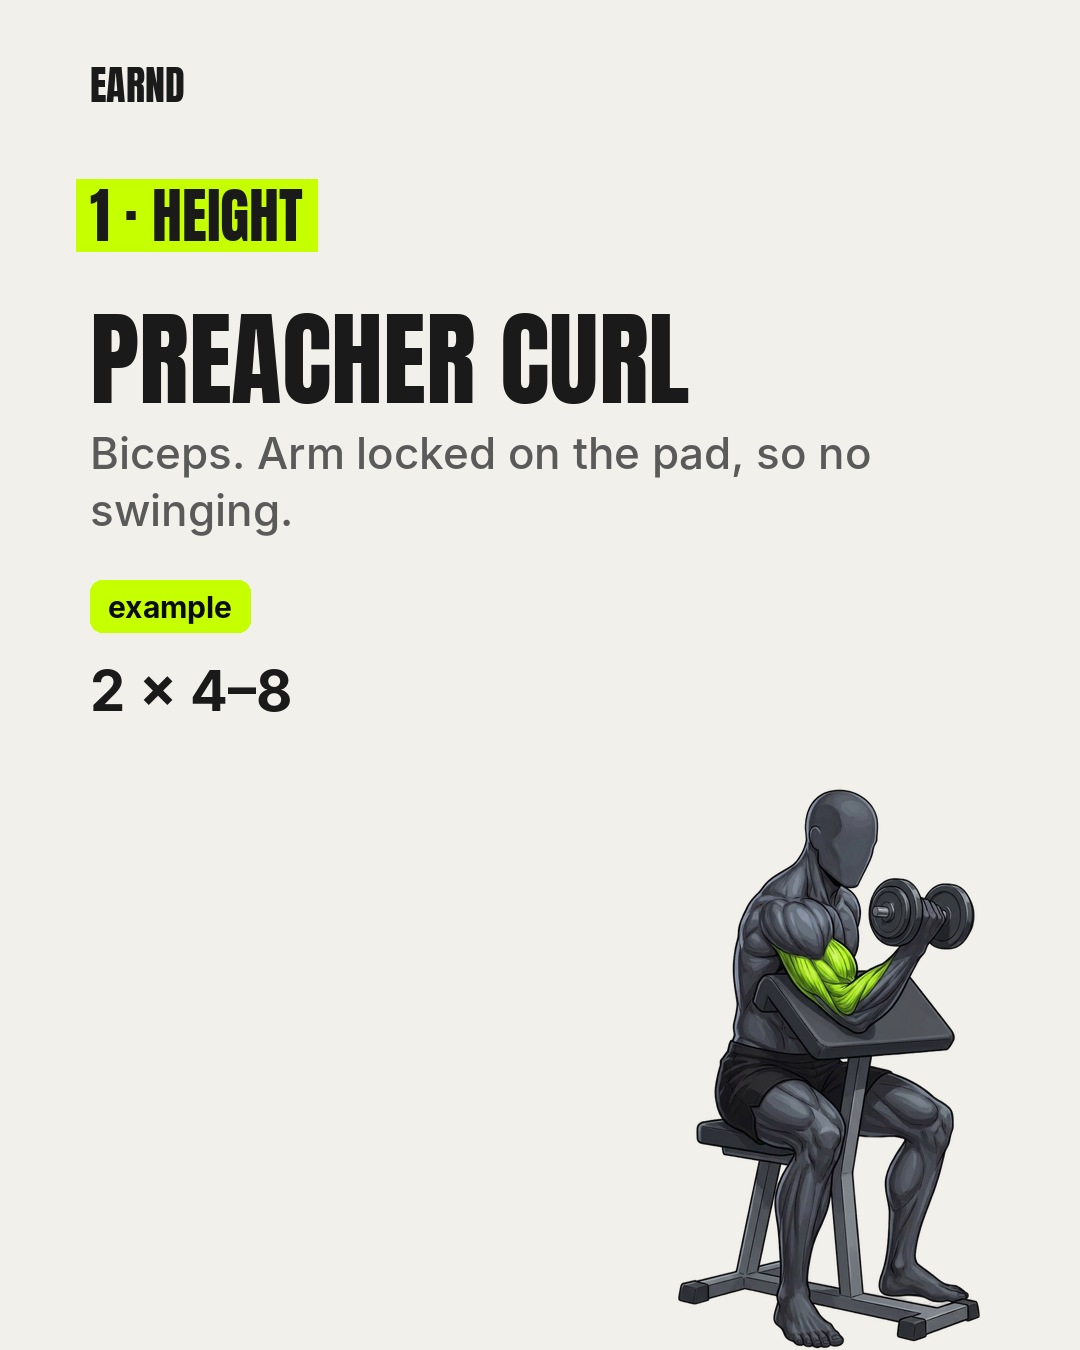
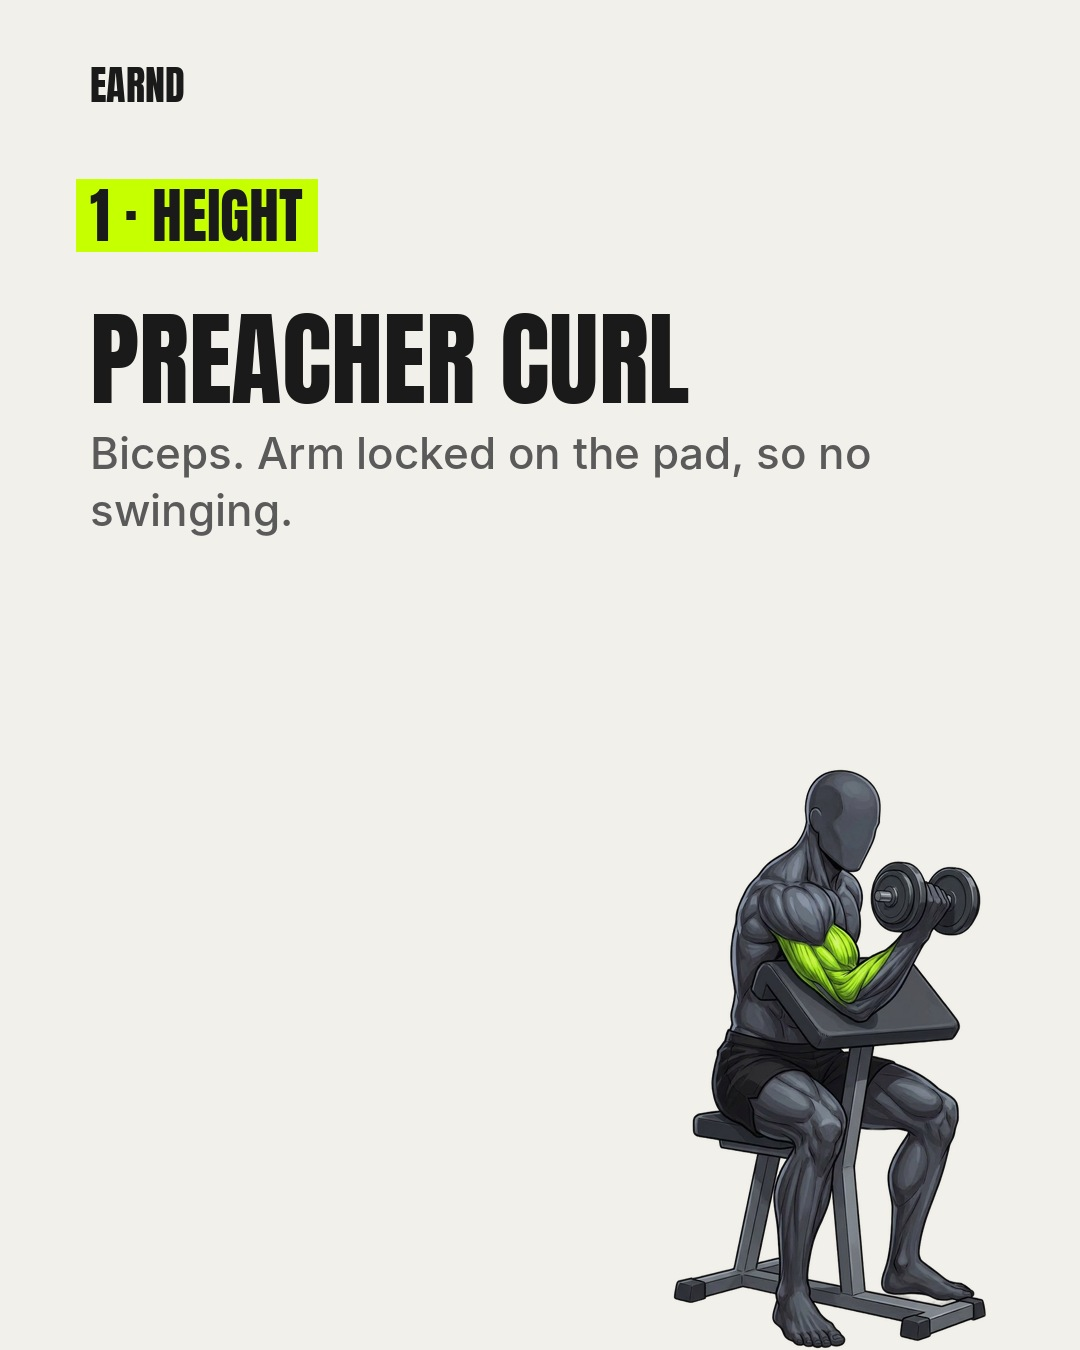
Remove sets x reps prescriptions from all slides (founder rule 2026-10-30)
Claude-Session: https://claude.ai/code/session_01Ws8S991F2EukoMgPY9duxg

Changed region(s): [[0.6111, 0.56, 0.9167, 0.9956], [0.0611, 0.4044, 0.275, 0.5289]]

diff --git a/04-sets/2026-10-30-edu-perfect-upper-day/slides.md b/04-sets/2026-10-30-edu-perfect-upper-day/slides.md
@@ -7,17 +7,17 @@
 - **Caption:** the upper day behind EARND. save it for your next session
 - **Hashtags:** #upperday #upperlower #gymroutine #gymtips #musclebuildingtips
 - **AI label:** ON (mascot)
-- Exercises, sets and rules come from `01-app/programme.md`; numbers are tagged "example".
+- Exercises, sets and rules come from `01-app/programme.md`; progression numbers are tagged "example"; no sets × reps on slides (2026-10-30).
 
 | # | Type | Text |
 |---|---|---|
 | 1 | cover | STRUCTURE THE / PERFECT / UPPER DAY |
-| 2 | exercise | #1 · MACHINE CHEST PRESS · Chest · Shoulder blades pinned to the pad. Press, then control it back. · 2 × 4–8 |
-| 3 | exercise | #2 · PULLDOWN · Lats · Drive your elbows down to your sides. · 2 × 4–8 |
-| 4 | exercise | #3 · CHEST-SUPPORTED ROW · Upper back · Chest stays on the pad. Pull your elbows back. · 2 × 4–8 |
-| 5 | exercise | #4 · LATERAL RAISE · Side delts · Lead with your elbows. Stop at shoulder height. · 2 × 4–8 |
-| 6 | exercise | #5 · PREACHER CURL · Biceps · Arm stays on the pad. Lower to a full stretch. · 2 × 4–8 |
-| 7 | exercise | #6 · POLIQUIN PUSHDOWN · Triceps · Elbows pinned to your sides. Full lockout. · 2 × 4–8 |
-| 8 | cards | THE FULL UPPER DAY · 2 × 4–8 each · Machine Chest Press, Pulldown, Chest-Supported Row, Lateral Raise, Preacher Curl, Poliquin Pushdown |
+| 2 | exercise | #1 · MACHINE CHEST PRESS · Chest · Shoulder blades pinned to the pad. Press, then control it back. |
+| 3 | exercise | #2 · PULLDOWN · Lats · Drive your elbows down to your sides. |
+| 4 | exercise | #3 · CHEST-SUPPORTED ROW · Upper back · Chest stays on the pad. Pull your elbows back. |
+| 5 | exercise | #4 · LATERAL RAISE · Side delts · Lead with your elbows. Stop at shoulder height. |
+| 6 | exercise | #5 · PREACHER CURL · Biceps · Arm stays on the pad. Lower to a full stretch. |
+| 7 | exercise | #6 · POLIQUIN PUSHDOWN · Triceps · Elbows pinned to your sides. Full lockout. |
+| 8 | cards | THE FULL UPPER DAY · Machine Chest Press, Pulldown, Chest-Supported Row, Lateral Raise, Preacher Curl, Poliquin Pushdown |
 | 9 | app | EARND SHOWS WHAT TO BEAT ON EVERY ONE · Last session and today's target, on every set. |
 | 10 | cta | SAVE THIS FOR UPPER DAY. · EARND launches soon. Follow for the launch. |

diff --git a/04-sets/2026-10-29-edu-upper-lower-programme/slides.md b/04-sets/2026-10-29-edu-upper-lower-programme/slides.md
@@ -6,16 +6,16 @@
 - **Angle:** EARND's real 4-day upper/lower programme as a save-able template → EARND shows what to beat
 - **Caption:** the exact 4-day split behind EARND. save it for your next session
 - **Hashtags:** #upperlower #workoutsplit #gymroutine #gymtips #musclebuildingtips
-- **AI label: ON** (mascot). App slides are real screenshots. Exercises and sets come from `01-app/programme.md`; numbers are tagged "example".
+- **AI label: ON** (mascot). App slides are real screenshots. Exercises and sets come from `01-app/programme.md`; progression numbers are tagged "example"; no sets × reps on slides (2026-10-30).
 
 | # | Type | Text |
 |---|---|---|
 | 1 | cover | THE 4-DAY / UPPER / LOWER / SPLIT |
 | 2 | grid | THE WEEK · Four sessions, three rest days. Any four days work if you keep a rest day between pairs. |
-| 3 | list | DAY 1 · UPPER A · 2 × 4–8 each · Machine Chest Press, Pulldown, Chest-Supported Row, Lateral Raise, Preacher Curl, Poliquin Pushdown |
-| 4 | list | DAY 2 · LOWER A · 2 × 4–8 each · Calf Press, Seated Leg Curl, Leg Extension, Adductor Machine, Hip Thrust |
-| 5 | list | DAY 4 · UPPER B · 2 × 4–8 each · Machine Shoulder Press, Pullover, Shrug, Pec Deck, Bayesian Curl, Triceps Extension |
-| 6 | list | DAY 5 · LOWER B · 2 × 4–8 each · Calf Press, Unilateral Leg Curl, Unilateral Leg Extension, RDL, Pendulum / Hack Squat |
+| 3 | list | DAY 1 · UPPER A · Machine Chest Press, Pulldown, Chest-Supported Row, Lateral Raise, Preacher Curl, Poliquin Pushdown |
+| 4 | list | DAY 2 · LOWER A · Calf Press, Seated Leg Curl, Leg Extension, Adductor Machine, Hip Thrust |
+| 5 | list | DAY 4 · UPPER B · Machine Shoulder Press, Pullover, Shrug, Pec Deck, Bayesian Curl, Triceps Extension |
+| 6 | list | DAY 5 · LOWER B · Calf Press, Unilateral Leg Curl, Unilateral Leg Extension, RDL, Pendulum / Hack Squat |
 | 7 | steps | HOW TO PROGRESS · OWN 8 CLEAN REPS, THEN ADD WEIGHT. · 100 kg × 8 → 105 kg × 4–5 |
 | 8 | app | THIS IS EARND'S PROGRAMME · Every set shows last session and the target to beat. |
 | 9 | cta | SAVE THIS FOR YOUR NEXT SESSION. · EARND launches soon. Follow for the launch. |

diff --git a/04-sets/2026-10-29-ezyxbt-edu-my-split/slides.md b/04-sets/2026-10-29-ezyxbt-edu-my-split/slides.md
@@ -9,13 +9,13 @@
 - **AI label:** not needed (real photos, no generated images).
 - **First-person claims the founder must confirm:** that he trains this split / uses this progression rule.
 
-| # | Type | Text | Photo |
-|---|---|---|---|
-| 1 | cover | THE 4-DAY SPLIT / I ACTUALLY / TRAIN | b7-15.jpg |
-| 2 | steps | WHY THIS ONE · 4 DAYS A WEEK. SHORT SESSIONS. · upper, lower, rest, upper, lower. easy to repeat every week. · 2 × 4–8 per exercise | b6-13.jpg |
-| 3 | grid | MY WEEK · four sessions, three rest days. |  |
-| 4 | list | DAY 1 · UPPER A · 2 × 4–8 each · Machine Chest Press, Pulldown, Chest-Supported Row, Lateral Raise, Preacher Curl, Poliquin Pushdown |  |
-| 5 | list | DAY 2 · LOWER A · 2 × 4–8 each · Calf Press, Seated Leg Curl, Leg Extension, Adductor Machine, Hip Thrust |  |
-| 6 | list | DAY 4 · UPPER B · 2 × 4–8 each · Machine Shoulder Press, Pullover, Shrug, Pec Deck, Bayesian Curl, Triceps Extension |  |
-| 7 | list | DAY 5 · LOWER B · 2 × 4–8 each · Calf Press, Unilateral Leg Curl, Unilateral Leg Extension, RDL, Pendulum / Hack Squat |  |
-| 8 | cta | SAVE IT FOR YOUR NEXT SESSION. · i'm building EARND. follow @earndapp for the launch. | b7-16.jpg |
+| # | Type | Text |
+|---|---|---|
+| 1 | cover | THE 4-DAY SPLIT / I ACTUALLY / TRAIN |
+| 2 | steps | WHY THIS ONE · 4 DAYS A WEEK. SHORT SESSIONS. · upper, lower, rest, upper, lower. easy to repeat every week. |
+| 3 | grid | MY WEEK · four sessions, three rest days. |
+| 4 | list | DAY 1 · UPPER A · Machine Chest Press, Pulldown, Chest-Supported Row, Lateral Raise, Preacher Curl, Poliquin Pushdown |
+| 5 | list | DAY 2 · LOWER A · Calf Press, Seated Leg Curl, Leg Extension, Adductor Machine, Hip Thrust |
+| 6 | list | DAY 4 · UPPER B · Machine Shoulder Press, Pullover, Shrug, Pec Deck, Bayesian Curl, Triceps Extension |
+| 7 | list | DAY 5 · LOWER B · Calf Press, Unilateral Leg Curl, Unilateral Leg Extension, RDL, Pendulum / Hack Squat |
+| 8 | cta | SAVE IT FOR YOUR NEXT SESSION. · i'm building EARND. follow @earndapp for the launch. |

diff --git a/04-sets/2026-10-30-edu-perfect-lower-day/slides.md b/04-sets/2026-10-30-edu-perfect-lower-day/slides.md
@@ -7,16 +7,16 @@
 - **Caption:** the lower day behind EARND. save it for leg day
 - **Hashtags:** #legday #lowerbody #upperlower #gymtips #musclebuildingtips
 - **AI label:** ON (mascot)
-- Exercises, sets and rules come from `01-app/programme.md`; numbers are tagged "example".
+- Exercises, sets and rules come from `01-app/programme.md`; progression numbers are tagged "example"; no sets × reps on slides (2026-10-30).
 
 | # | Type | Text |
 |---|---|---|
 | 1 | cover | STRUCTURE THE / PERFECT / LOWER DAY |
-| 2 | exercise | #1 · CALF PRESS · Calves · Full stretch at the bottom, pause, then press. · 2 × 4–8 |
-| 3 | exercise | #2 · UNILATERAL LEG CURL · Hamstrings · One leg at a time. Control the way back. · 2 × 4–8 |
-| 4 | exercise | #3 · UNILATERAL LEG EXTENSION · Quads · Squeeze at the top for a second. · 2 × 4–8 |
-| 5 | exercise | #4 · RDL · Hamstrings + glutes · Hips back, flat back, bar close to your legs. · 2 × 4–8 |
-| 6 | exercise | #5 · PENDULUM / HACK SQUAT · Quads · Go as deep as you can with control. · 2 × 4–8 |
-| 7 | cards | THE FULL LOWER DAY · 2 × 4–8 each · Calf Press, Unilateral Leg Curl, Unilateral Leg Extension, RDL, Pendulum / Hack Squat |
+| 2 | exercise | #1 · CALF PRESS · Calves · Full stretch at the bottom, pause, then press. |
+| 3 | exercise | #2 · UNILATERAL LEG CURL · Hamstrings · One leg at a time. Control the way back. |
+| 4 | exercise | #3 · UNILATERAL LEG EXTENSION · Quads · Squeeze at the top for a second. |
+| 5 | exercise | #4 · RDL · Hamstrings + glutes · Hips back, flat back, bar close to your legs. |
+| 6 | exercise | #5 · PENDULUM / HACK SQUAT · Quads · Go as deep as you can with control. |
+| 7 | cards | THE FULL LOWER DAY · Calf Press, Unilateral Leg Curl, Unilateral Leg Extension, RDL, Pendulum / Hack Squat |
 | 8 | app | EARND SHOWS WHAT TO BEAT ON EVERY ONE · Last session and today's target, on every set. |
 | 9 | cta | SAVE THIS FOR LEG DAY. · EARND launches soon. Follow for the launch. |

diff --git a/04-sets/2026-10-29-edu-only-3-arm-exercises/slides.md b/04-sets/2026-10-29-edu-only-3-arm-exercises/slides.md
@@ -6,15 +6,15 @@
 - **Angle:** arm grows in 3 directions → 1 exercise each → track each one in EARND
 - **Caption:** 3 exercises, 3 directions. that's the whole arm
 - **Hashtags:** #armday #armworkout #hammercurls #gymtips #musclebuildingtips
-- **AI label: ON** (mascot). App slides are real screenshots. Exercises and sets come from `01-app/programme.md`; numbers are tagged "example".
+- **AI label: ON** (mascot). App slides are real screenshots. Exercises and sets come from `01-app/programme.md`; progression numbers are tagged "example"; no sets × reps on slides (2026-10-30).
 
 | # | Type | Text |
 |---|---|---|
 | 1 | cover | THE ONLY / 3 ARM EXERCISES / YOU NEED |
 | 2 | steps | THE IDEA · YOUR ARM HAS 3 DIRECTIONS: HEIGHT, WIDTH, DEPTH. · Train one exercise for each. |
-| 3 | steps | 1 · HEIGHT · PREACHER CURL · Biceps. Arm locked on the pad, so no swinging. · 2 × 4–8 |
-| 4 | steps | 2 · WIDTH · HAMMER CURL · Palms facing each other. Hits the brachialis on the side of the arm. · 2 × 4–8 |
-| 5 | steps | 3 · DEPTH · OVERHEAD TRICEPS EXTENSION · Triceps, the back of the arm, trained in a stretch. · 2 × 4–8 |
+| 3 | steps | 1 · HEIGHT · PREACHER CURL · Biceps. Arm locked on the pad, so no swinging. |
+| 4 | steps | 2 · WIDTH · HAMMER CURL · Palms facing each other. Hits the brachialis on the side of the arm. |
+| 5 | steps | 3 · DEPTH · OVERHEAD TRICEPS EXTENSION · Triceps, the back of the arm, trained in a stretch. |
 | 6 | steps | THE RULE · OWN 8 CLEAN REPS, THEN ADD WEIGHT. · Execution → reps → load. |
 | 7 | app | EARND SHOWS YOUR NEXT STEP · After every workout: add a rep, or increase the load. |
 | 8 | cta | SAVE THIS FOR ARM DAY. · EARND launches soon. Follow for the launch. |

diff --git a/CLAUDE.md b/CLAUDE.md
@@ -39,7 +39,7 @@ default_app_slide: 4
 - Our accounts never comment on or engage with each other.
 - EARND has no free trial. Weekly reviews track paid subscriptions, not trials (the `trials` column in `07-results/revenue.csv` stays blank). Locate drop-offs with the funnel in `01-app/app-brief.md` → Pricing.
 - Prelaunch: every set ends with its account's prelaunch CTA from `accounts.json` (@earndapp: "EARND launches soon. Follow for the launch."). No download CTA or links until `phase` is "launched" and `launch.download_url` is set. No trial references.
-- Numerical examples (e.g. 100 kg × 7 → 100 kg × 8) are always labelled "example" on the slide. This includes sets × reps prescriptions and any weights (founder, 2026-10-29).
+- Numerical examples (e.g. 100 kg × 7 → 100 kg × 8) are always labelled "example" on the slide. No sets × reps prescriptions on slides at all (founder, 2026-10-30); weights in progression examples stay labelled "example".
 - Scheduling: users move the four prescribed sessions to available days. Never say the programme adapts to fewer sessions.
 - Never invent user experiences, testimonials, or independent endorsements.
 - No physique promises. Hooks and payoffs talk about tracking, targets, and having a plan. Users "can see when they've improved," never "numbers go up every week" or "know it's working."

diff --git a/04-sets/2026-10-29-ezyxbt-edu-how-i-progress/slides.md b/04-sets/2026-10-29-ezyxbt-edu-how-i-progress/slides.md
@@ -9,11 +9,11 @@
 - **AI label:** not needed (real photos, no generated images).
 - **First-person claims the founder must confirm:** that he trains this split / uses this progression rule.
 
-| # | Type | Text | Photo |
-|---|---|---|---|
-| 1 | cover | HOW I / PROGRESS / EVERY LIFT | b5-02.jpg |
-| 2 | steps | STEP 1 · I PICK A WEIGHT I CAN DO FOR 4 CLEAN REPS. | b6-11.jpg |
-| 3 | steps | STEP 2 · SAME WEIGHT. I ADD REPS. · 100 kg × 5 → 6 → 7 | b5-16.jpg |
-| 4 | steps | STEP 3 · 8 CLEAN REPS? THEN I ADD WEIGHT. · 100 kg × 8 → 105 kg × 4–5 | b5-01.jpg |
-| 5 | steps | THE RULE · IF MY FORM BREAKS, I HAVEN'T EARNED THE INCREASE. | b1-11.jpg |
-| 6 | cta | THAT'S THE WHOLE SYSTEM. · i'm building EARND. follow @earndapp for the launch. | b4-10.jpg |
+| # | Type | Text |
+|---|---|---|
+| 1 | cover | HOW I / PROGRESS / EVERY LIFT |
+| 2 | steps | STEP 1 · I PICK A WEIGHT I CAN DO FOR 4 CLEAN REPS. |
+| 3 | steps | STEP 2 · SAME WEIGHT. I ADD REPS. · 100 kg × 5 → 6 → 7 |
+| 4 | steps | STEP 3 · 8 CLEAN REPS? THEN I ADD WEIGHT. · 100 kg × 8 → 105 kg × 4–5 |
+| 5 | steps | THE RULE · IF MY FORM BREAKS, I HAVEN'T EARNED THE INCREASE. |
+| 6 | cta | THAT'S THE WHOLE SYSTEM. · i'm building EARND. follow @earndapp for the launch. |

diff --git a/04-sets/2026-10-30-ezyxbt-edu-session-rules/slides.md b/04-sets/2026-10-30-ezyxbt-edu-session-rules/slides.md
@@ -7,12 +7,12 @@
 - **Caption:** the rules i follow every session
 - **Hashtags:** #gymtips #progressiveoverload #strengthtraining #upperlower
 - **AI label:** not needed (real photos)
-- Exercises, sets and rules come from `01-app/programme.md`; numbers are tagged "example". First-person rules: the founder confirms them by approving.
+- Exercises, sets and rules come from `01-app/programme.md`; progression numbers are tagged "example"; no sets × reps on slides (2026-10-30). First-person rules: the founder confirms them by approving.
 
 | # | Type | Text |
 |---|---|---|
 | 1 | cover | 4 RULES I / FOLLOW / EVERY SESSION |
-| 2 | steps | RULE 1 · 2 WORKING SETS PER EXERCISE. · 4–8 clean reps each. that's it. · 2 × 4–8 |
+| 2 | steps | RULE 1 · 2 WORKING SETS PER EXERCISE. · 4–8 clean reps each. that's it. |
 | 3 | steps | RULE 2 · 2–3 MINUTES REST BETWEEN WORKING SETS. · so the second set is actually good. |
 | 4 | steps | RULE 3 · WARM-UPS DON'T COUNT. · do as many as you need. only working sets get logged. |
 | 5 | steps | RULE 4 · EXECUTION → REPS → LOAD. · in that order. never the other way round. |

diff --git a/04-sets/2026-10-28-edu-ranking-splits-dark/slides.md b/04-sets/2026-10-28-edu-ranking-splits-dark/slides.md
@@ -16,6 +16,6 @@
 | 4 | rank | 4 · ARNOLD · Lots of volume, but 6 days a week is hard to keep up. |
 | 5 | rank | 3 · PPL x2 · Each muscle twice a week, but six sessions is a lot to fit in. |
 | 6 | rank | 2 · PPL + UL · Twice-a-week frequency in five days. Great if you can train 5x. |
-| 7 | rank | 1 · UPPER/LOWER · Each muscle twice a week in just four sessions. Short, focused, repeatable. |
-| 8 | app | EARND IS A 4-DAY UPPER / LOWER · Open today's session and see what to beat on every set. · 01-app/assets/train-week-overview.png |
+| 7 | rank | UPPER/LOWER · Each muscle twice a week in just four sessions. Short, focused, repeatable. |
+| 8 | app | EARND IS A 4-DAY UPPER / LOWER · Open today's session and see what to beat on every set. |
 | 9 | cta | PICK A SPLIT YOU CAN ACTUALLY KEEP. · EARND launches soon. Follow for the launch. |

diff --git a/04-sets/2026-10-28-edu-ranking-splits-light/slides.md b/04-sets/2026-10-28-edu-ranking-splits-light/slides.md
@@ -16,6 +16,6 @@
 | 4 | rank | 4 · ARNOLD · Lots of volume, but 6 days a week is hard to keep up. |
 | 5 | rank | 3 · PPL x2 · Each muscle twice a week, but six sessions is a lot to fit in. |
 | 6 | rank | 2 · PPL + UL · Twice-a-week frequency in five days. Great if you can train 5x. |
-| 7 | rank | 1 · UPPER/LOWER · Each muscle twice a week in just four sessions. Short, focused, repeatable. |
-| 8 | app | EARND IS A 4-DAY UPPER / LOWER · Open today's session and see what to beat on every set. · 01-app/assets/train-week-overview.png |
+| 7 | rank | UPPER/LOWER · Each muscle twice a week in just four sessions. Short, focused, repeatable. |
+| 8 | app | EARND IS A 4-DAY UPPER / LOWER · Open today's session and see what to beat on every set. |
 | 9 | cta | PICK A SPLIT YOU CAN ACTUALLY KEEP. · EARND launches soon. Follow for the launch. |

diff --git a/04-sets/2026-10-28-edu-progression-rule-dark/slides.md b/04-sets/2026-10-28-edu-progression-rule-dark/slides.md
@@ -16,5 +16,5 @@
 | 4 | steps | STEP 3 · OWN 8 CLEAN REPS? ADD WEIGHT. · 100 kg × 8 → 105 kg × 4–5 |
 | 5 | steps | STEP 4 · BUILD BACK TO 8. REPEAT. · Reps → load → repeat. That's the whole system. |
 | 6 | steps | THE RULE · IF YOUR FORM BREAKS, YOU HAVEN'T EARNED THE INCREASE. · Execution → reps → load. In that order. |
-| 7 | app | EARND TELLS YOU WHEN · After every workout: add a rep, or increase the load. · True · 01-app/assets/workout-complete-progressed.png |
+| 7 | app | EARND TELLS YOU WHEN · After every workout: add a rep, or increase the load. |
 | 8 | cta | STOP GUESSING WHEN TO GO UP. · EARND launches soon. Follow for the launch. |

diff --git a/04-sets/2026-10-28-edu-progression-rule-light/slides.md b/04-sets/2026-10-28-edu-progression-rule-light/slides.md
@@ -16,5 +16,5 @@
 | 4 | steps | STEP 3 · OWN 8 CLEAN REPS? ADD WEIGHT. · 100 kg × 8 → 105 kg × 4–5 |
 | 5 | steps | STEP 4 · BUILD BACK TO 8. REPEAT. · Reps → load → repeat. That's the whole system. |
 | 6 | steps | THE RULE · IF YOUR FORM BREAKS, YOU HAVEN'T EARNED THE INCREASE. · Execution → reps → load. In that order. |
-| 7 | app | EARND TELLS YOU WHEN · After every workout: add a rep, or increase the load. · True · 01-app/assets/workout-complete-progressed.png |
+| 7 | app | EARND TELLS YOU WHEN · After every workout: add a rep, or increase the load. |
 | 8 | cta | STOP GUESSING WHEN TO GO UP. · EARND launches soon. Follow for the launch. |
